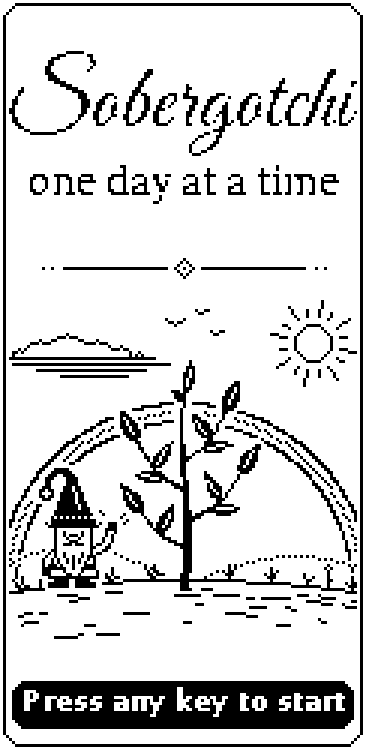
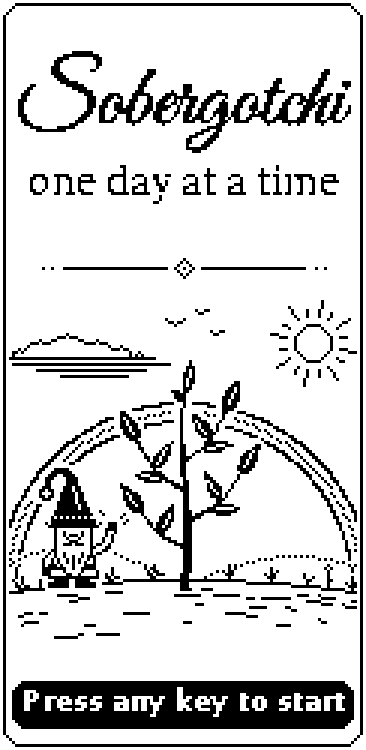
world29: landing title drawn as artwork so the script has no holes
Claude-Session: https://claude.ai/code/session_01Qm65JASzy6rudDz7R6Z9hn

Changed region(s): [[0.1202, 0.0613, 0.9617, 0.2147], [0.0301, 0.092, 0.1803, 0.184]]

diff --git a/tools/make_title.py b/tools/make_title.py
@@ -1,0 +1,28 @@
+#!/usr/bin/env python3
+"""Landing page title (art/icons/title.png): "Sobergotchi" in Great Vibes script, drawn large and brought down
+to size with a slightly heavier pen so the thin hairlines stay joined on the e-paper (the 1-bit font left holes).
+Usage: python tools/make_title.py [stroke] [cut]
+"""
+import os, sys
+from PIL import Image, ImageDraw, ImageFont
+
+ROOT = os.path.dirname(os.path.dirname(os.path.abspath(__file__)))
+W, H, S = 116, 40, 8
+TEXT = "Sobergotchi"
+
+
+def make(stroke=0, cut=215, size=29):
+    font = ImageFont.truetype(os.path.join(ROOT, "fonts", "GreatVibes-Regular.ttf"), size * S)
+    big = Image.new("L", (W * S, H * S), 255)
+    d = ImageDraw.Draw(big)
+    l, t, r, b = d.textbbox((0, 0), TEXT, font=font, stroke_width=stroke)
+    d.text(((W * S - (r - l)) / 2 - l, (H * S - (b - t)) / 2 - t), TEXT, font=font, fill=0,
+           stroke_width=stroke, stroke_fill=0)
+    small = big.resize((W, H), Image.BOX)  # average coverage per pixel
+    return small.point(lambda v: 0 if v < cut else 255).convert("1")
+
+
+if __name__ == "__main__":
+    st = int(sys.argv[1]) if len(sys.argv) > 1 else 0
+    cut = int(sys.argv[2]) if len(sys.argv) > 2 else 215
+    make(st, cut).save(os.path.join(ROOT, "art", "icons", "title.png"))
